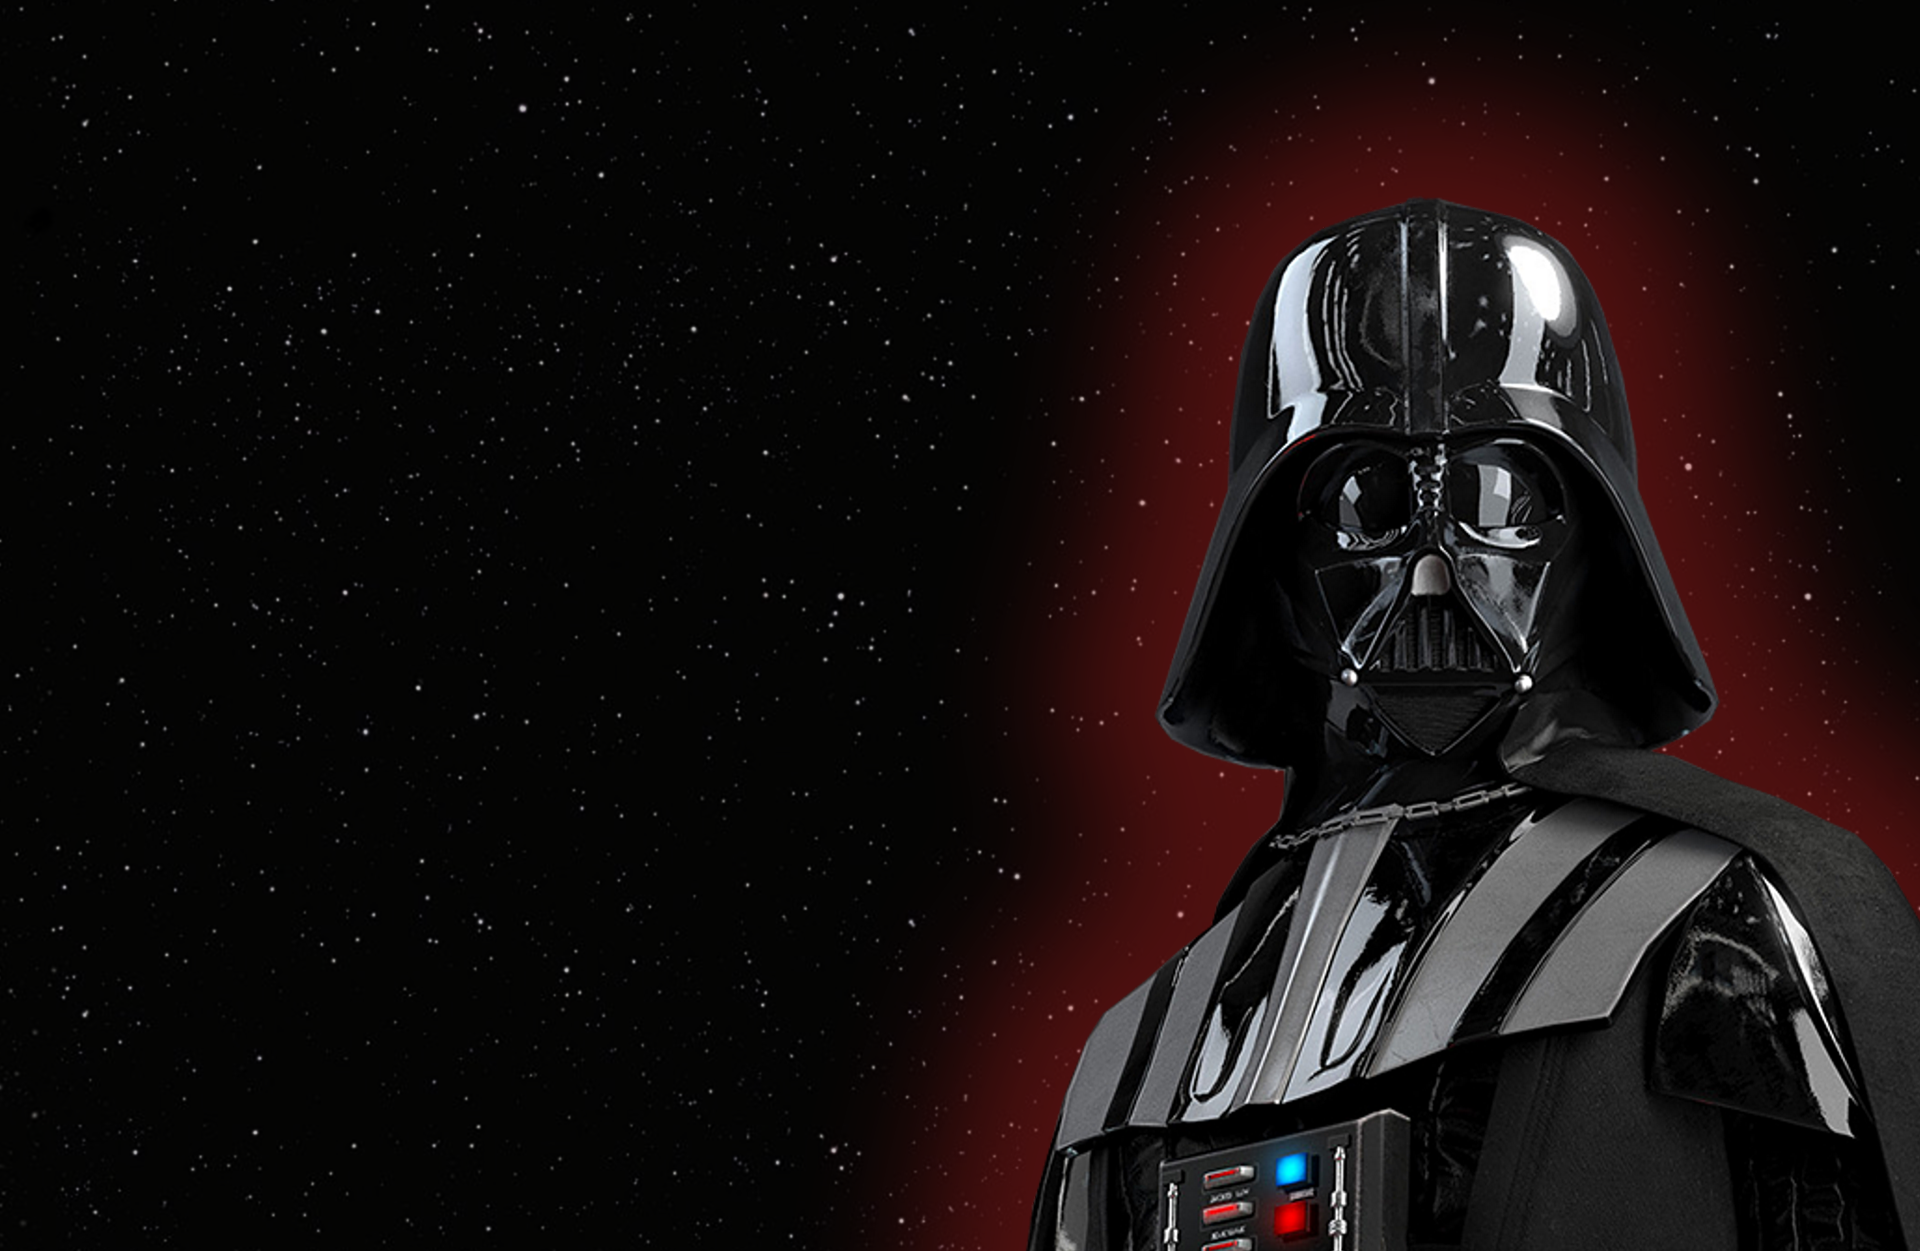
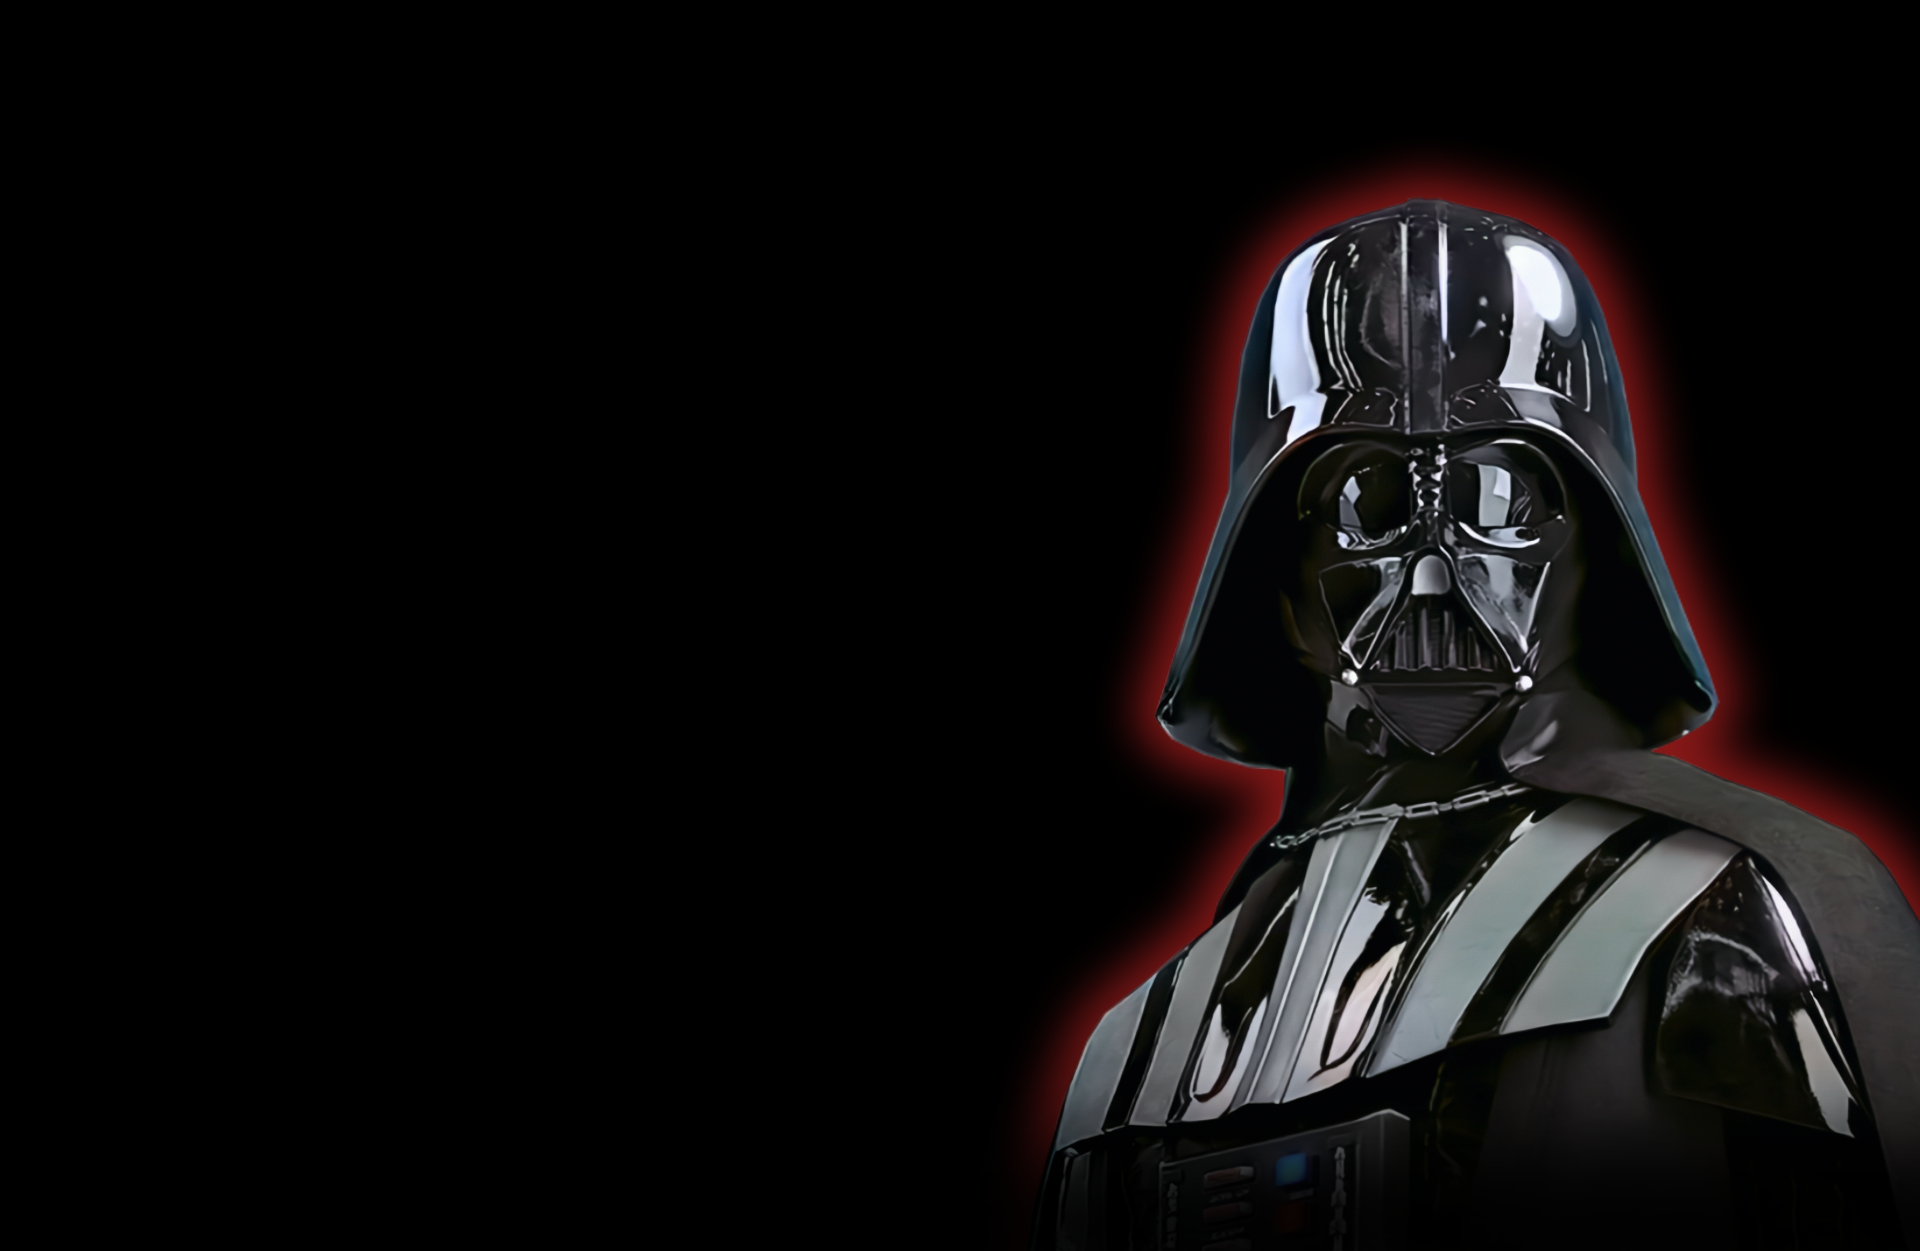
LIghtersaber Divider
Added lightsaber divider and uodated hero image to blend better

diff --git a/css/main.css b/css/main.css
@@ -1,1 +1,1 @@
-body{font-family:"Open Sans",Arial,sans-serif}p{margin-bottom:20px}h2{margin-top:20px;font-weight:600;font-size:24px;margin-bottom:20px}h3{font-weight:600;font-size:18px}p{font-weight:300;font-size:16px;line-height:26px}#hero-intro{margin-top:200px}.btn{text-transform:uppercase}.btn:active .btn-slide-show-text1{margin-left:65px}.btn-shadow-drop{position:relative;margin-top:10%;background:#b50000;padding:20px;font-size:16px;font-weight:700;transition:.2s ease-in-out;left:0px;top:0px;width:180px}.btn-shadow-drop:active{left:4px;top:4px;box-shadow:#fff 0px 0px 0px 0px}.btn-shadow-drop--black{border:1px solid #333;color:#fff;box-shadow:#333 4px 4px 0px 0px}.card-wrapper{margin:200px 0}.card{list-style:none;position:relative;border-radius:10px;background-size:cover;transition:filter 200ms linear}.card:before{content:"";display:block;padding-bottom:150%;width:100%}.card-background{filter:brightness(0.75) saturate(1.2) contrast(0.85);position:absolute;width:100%;height:100%;top:0;left:0;border-radius:10px;transform-origin:center;transform:scale(1) translateZ(0);transition:filter 200ms linear,transform 200ms linear;background-position:center;background-size:cover}.card:hover .card-background{filter:brightness(1) saturate(1) contrast(1);transform:scale(1.05);z-index:10}.card-wrapper:hover .card:not(:hover){filter:blur(5px)}.poster{position:relative;margin-bottom:28px;height:500px;width:300px;background-position:center;background-size:cover;overflow:hidden}.poster::before{content:"";position:absolute;top:0;left:0;width:100%;height:100%;background:linear-gradient(to bottom, rgba(0, 0, 0, 0.5), rgba(0, 0, 0, 0.85));opacity:0;transition:opacity .3s ease;z-index:1}.poster:hover::before{opacity:1}.crawl{position:absolute;top:0;left:0;width:100%;height:100%;background-color:rgba(0,0,0,.85);padding:24px;text-align:justify;font-size:14px;opacity:0;transition:opacity .3s ease;z-index:2;perspective:500px;overflow:hidden}.crawl-text{color:#feda4a;font-family:"Pathway Gothic One",sans-serif;font-weight:600;font-size:18px;transform-origin:50% 100%;animation:crawl 15s linear;animation-play-state:paused;position:absolute;top:100%;width:100%}@keyframes crawl{0%{top:100%;transform:rotateX(20deg) translateZ(0)}100%{top:0;transform:rotateX(20deg) translateZ(0)}}.poster:hover .crawl{opacity:1}.poster:hover .crawl-text{animation-play-state:running}.movie-card{display:flex;flex-direction:column;align-items:center;margin:20px;width:320px}.title{margin-bottom:10px;font-size:18px;text-align:center}body{font-family:Arial,sans-serif;margin:0;padding:0;background-color:#000;color:#fff}header{background-image:url("../images/hero-star.png");background-size:cover;height:100vh}a{cursor:pointer}ul{list-style:none;padding:0}li{padding:10px}li:nth-child(odd){background-color:#efefef}li img{max-width:10%;display:block}/*# sourceMappingURL=main.css.map */
+h1,h2,h3,p{font-family:"Pathway Gothic One",serif;font-weight:400;font-style:normal}body{font-family:"Open Sans",Arial,sans-serif}p{margin-bottom:20px}h2{margin-top:20px;font-weight:600;font-size:24px;margin-bottom:20px}h3{font-weight:600;font-size:18px}p{font-weight:300;font-size:16px;line-height:26px}#hero-intro{margin-top:200px}.btn{text-transform:uppercase}.btn:active .btn-slide-show-text1{margin-left:65px}.btn-shadow-drop{position:relative;margin-top:10%;background:#b50000;padding:20px;font-size:16px;font-weight:700;transition:.2s ease-in-out;left:0px;top:0px;width:180px}.btn-shadow-drop:active{left:4px;top:4px;box-shadow:#fff 0px 0px 0px 0px}.btn-shadow-drop--black{border:1px solid #333;color:#fff;box-shadow:#333 4px 4px 0px 0px}.section-title{font-size:34px;margin:24px 0 12px 0;text-align:center}.section-subtitle{font-size:18px;margin-bottom:12px;text-align:center}.card-wrapper{margin:48px 0}.card{list-style:none;position:relative;border-radius:10px;background-size:cover;transition:filter 200ms linear}.card:before{content:"";display:block;padding-bottom:150%;width:100%}.card-background{filter:brightness(0.75) saturate(1.2) contrast(0.85);position:absolute;width:100%;height:100%;top:0;left:0;border-radius:10px;transform-origin:center;transform:scale(1) translateZ(0);transition:filter 200ms linear,transform 200ms linear;background-position:center;background-size:cover}.card:hover .card-background{filter:brightness(1) saturate(1) contrast(1);transform:scale(1.05);z-index:10}.card-wrapper:hover .card:not(:hover){filter:blur(5px)}.poster{position:relative;margin-bottom:28px;height:500px;width:300px;background-position:center;background-size:cover;overflow:hidden}.poster::before{content:"";position:absolute;top:0;left:0;width:100%;height:100%;background:linear-gradient(to bottom, rgba(0, 0, 0, 0.5), rgba(0, 0, 0, 0.85));opacity:0;transition:opacity .3s ease;z-index:1}.poster:hover::before{opacity:1}.crawl{position:absolute;top:0;left:0;width:100%;height:100%;background-color:rgba(0,0,0,.85);padding:24px;text-align:justify;font-size:14px;opacity:0;transition:opacity .3s ease;z-index:2;perspective:500px;overflow:hidden}.crawl-text{color:#feda4a;font-family:"Pathway Gothic One",sans-serif;font-weight:600;font-size:18px;transform-origin:50% 100%;animation:crawl 15s linear infinite;animation-play-state:paused;position:absolute;top:100%}@keyframes crawl{0%{top:600px;transform:rotateX(15deg) translateZ(0)}100%{top:-400px;transform:rotateX(20deg) translateZ(0)}}.poster:hover .crawl{opacity:1}.poster:hover .crawl-text{animation-play-state:running}#movie-con{display:flex;flex-wrap:wrap;justify-content:center}.movie-card{display:flex;flex-direction:column;align-items:center;margin:20px;width:320px}.title{margin-bottom:10px;font-size:18px;text-align:center}.divider{background-image:url("../images/saber-divider.png");background-size:contain}body{font-family:Arial,sans-serif;margin:0;padding:0;background-color:#000;color:#fff}header{background-image:url("../images/hero-star.jpg");background-size:contain;height:100vh}a{cursor:pointer}ul{list-style:none;padding:0}li{padding:10px}li:nth-child(odd){background-color:#efefef}li img{max-width:10%;display:block}/*# sourceMappingURL=main.css.map */

diff --git a/sass/components/_movie-card.scss b/sass/components/_movie-card.scss
@@ -1,3 +1,11 @@
+.poster {
+    position: relative;
+    margin-bottom: 28px;
+    height: 500px;
+    width: 300px;
+    background-position: center;
+    background-size: cover;
+    overflow: hidden;
 }
 
 .poster::before {
@@ -15,40 +23,23 @@
 
 .poster:hover::before {
     opacity: 1;
-
-
-    top: 0; /* Start from the top of the poster */
-    left: 0;
-    width: 100%;
-    height: 100%; /* Cover the entire height of the poster */
-    left: 0;
-    width: 100%;
-    height: 100%;
-    background: linear-gradient(to bottom, rgba(0, 0, 0, 0), rgba(0, 0, 0, 0.85));
-    opacity: 0;
-    transition: opacity 0.3s ease;
-    z-index: 2; 
-}
-
-.poster:hover::before {
-    opacity: 1;
 }
 
 .crawl {
     position: absolute;
-    top: 0; 
+    top: 0; /* Start from the top of the poster */
+    left: 0;
     width: 100%;
-    height: 100%; 
+    height: 100%; /* Cover the entire height of the poster */
     background-color: rgba(0, 0, 0, 0.85);
     padding: 24px;
     text-align: justify;
     font-size: 14px;
     opacity: 0;
     transition: opacity 0.3s ease;
-    z-index: 2; 
-    perspective: 500px; 
-    overflow: hidden; 
-
+    z-index: 2; /* Ensure the crawl text is above the overlay */
+    perspective: 500px; /* Apply perspective to the parent container */
+    overflow: hidden; /* Hide overflow */
 }
 
 .crawl-text {
@@ -57,27 +48,19 @@
     font-weight: 600;
     font-size: 18px;
     transform-origin: 50% 100%;
-    animation: crawl 15s linear;
-    animation-play-state: paused; 
-    position: absolute; /* Ensure the text is positioned absolutely */
-    top: 100%; /* Start from the bottom */
-    padding: 18px;
-    transform-origin: 50% 100%;
-    animation: crawl 30s linear;
+    animation: crawl 15s linear infinite;
     animation-play-state: paused; 
     position: absolute; 
     top: 100%; 
-
-    width: 100%;
 }
 
 @keyframes crawl {
     0% {
-        top: 100px;
-        transform: rotateX(20deg) translateZ(0);
+        top: 600px;
+        transform: rotateX(15deg) translateZ(0);
     }
     100% {
-        top: 500px;
+        top: -400px;
         transform: rotateX(20deg) translateZ(0);
     }
 }
@@ -87,7 +70,7 @@
 }
 
 .poster:hover .crawl-text {
-    animation-play-state: running; 
+    animation-play-state: running; /* Resume animation on hover */
 }
 
 #movie-con {

diff --git a/index.html b/index.html
@@ -9,6 +9,9 @@
     <link href="https://fonts.googleapis.com/css2?family=Open+Sans:wght@300;600&display=swap" rel="stylesheet">
     <link href="css/grid.css" rel="stylesheet">
     <link href="css/main.css" rel="stylesheet">
+    <link rel="preconnect" href="https://fonts.googleapis.com">
+    <link async rel="preconnect" href="https://fonts.gstatic.com" crossorigin>
+    <link async href="https://fonts.googleapis.com/css2?family=Pathway+Gothic+One&display=swap" rel="stylesheet">
     <script defer src="https://cdnjs.cloudflare.com/ajax/libs/gsap/3.12.2/gsap.min.js"></script> 
     <script defer src="https://cdnjs.cloudflare.com/ajax/libs/gsap/3.12.2/ScrollTrigger.min.js"></script>
     <script defer src="https://cdnjs.cloudflare.com/ajax/libs/gsap/3.12.2/ScrollToPlugin.min.js"></script>
@@ -29,6 +32,8 @@
 
     <!-- Cards -->
     <section>
+      <h2 class="section-title">LEGENDS OF THE GALAXY</h2>
+      <h3 class="section-subtitle">A Jedi must observe closely—hover to reveal their names, click to uncover their legacy</h3>
       <div class="card-wrapper">
         <div class="card-grid grid-con">
           <!-- Cards will be dynamically inserted here -->
@@ -36,8 +41,12 @@
       </div>
     </section>
 
+    <div class="divider"><img src="images/sabdivider.png" alt="lightsaber"></div>
+
  <!-- Movies -->
  <section id="movies-sec">
+  <h2 class="section-title">GALATIC HOLOREELS</h2>
+  <h3 class="section-subtitle">To understand the past, one must see where it begins. Hover, and revealed it shall be.</h3>
   <div id="movie-con" class="grid-con">
     <template id="movie-template">
       <div class="movie-card">

diff --git a/sass/components/_card.scss b/sass/components/_card.scss
@@ -1,6 +1,19 @@
 
+.section-title {
+    font-size: 34px;
+    margin: 24px 0 12px 0;
+    text-align: center;
+}
+
+.section-subtitle {
+    font-size: 18px;
+    margin-bottom: 12px;
+    text-align: center;
+}
+
+
 .card-wrapper {
-    margin: 200px 0;
+    margin: 48px 0;
 }
 
 .card {

diff --git a/sass/pages/_home.scss b/sass/pages/_home.scss
@@ -7,10 +7,11 @@ body {
 }
 
 header {
-    background-image: url('../images/hero-star.png');
-    background-size: cover;
+    background-image: url('../images/hero-star.jpg');
+    background-size: contain;
     height: 100vh;
 }
+
 
 a {
     cursor: pointer;

diff --git a/sass/abstracts/_fonts.scss b/sass/abstracts/_fonts.scss
@@ -1,0 +1,6 @@
+h1, h2, h3, p {
+    font-family: "Pathway Gothic One", serif;
+    font-weight: 400;
+    font-style: normal;
+  }
+  

diff --git a/sass/components/_divider.scss b/sass/components/_divider.scss
@@ -1,0 +1,4 @@
+.divider {
+    background-image: url('../images/saber-divider.png');
+    background-size: contain;
+}

diff --git a/sass/components/_index.scss b/sass/components/_index.scss
@@ -2,3 +2,4 @@
 @forward 'hero';
 @forward 'card';
 @forward 'movie-card';
+@forward 'divider';
